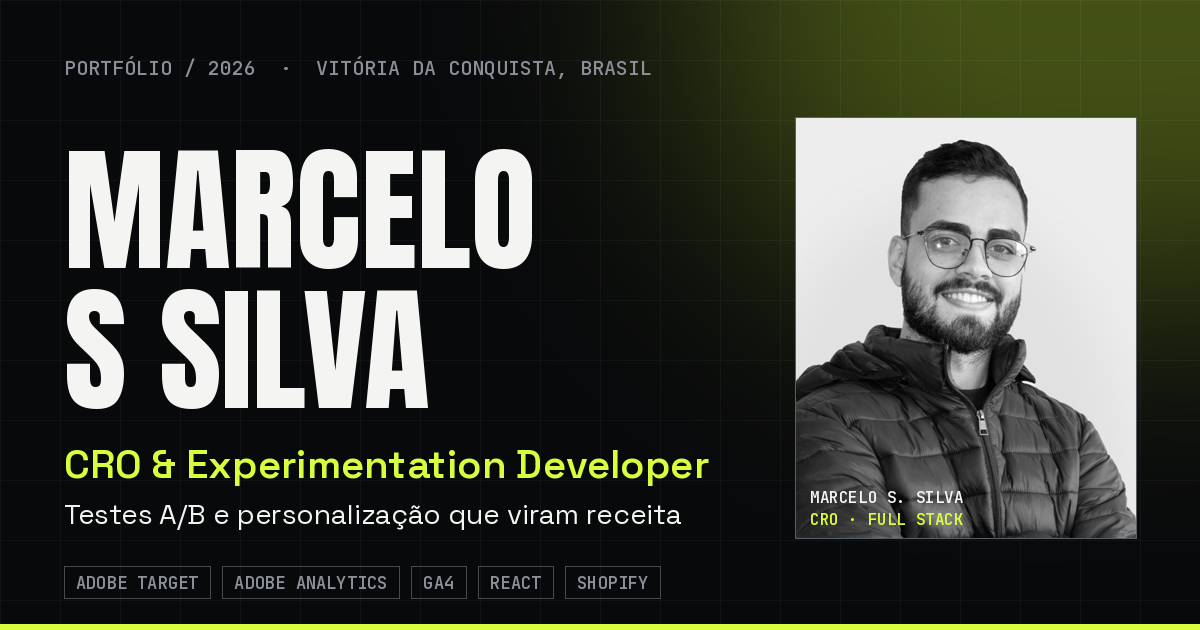
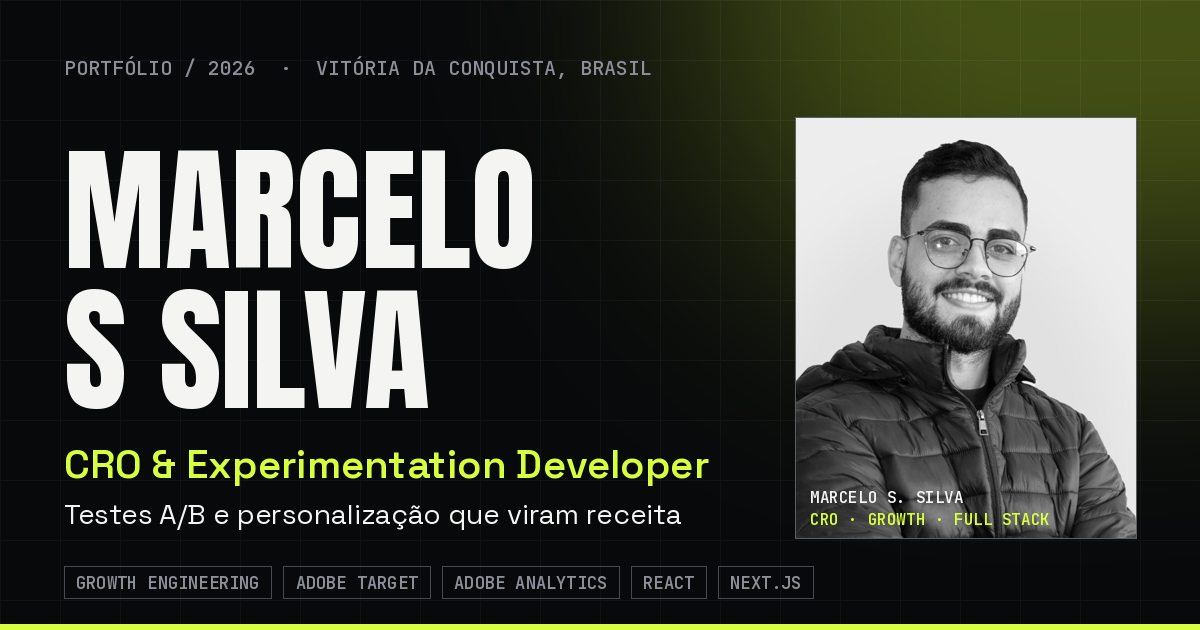
feat(v2): inclui Growth Engineering no posicionamento de CRO
O título, o hero, as palavras-chave e a imagem de compartilhamento passam a apresentar CRO, experimentação e Growth Engineering juntos.

Changed region(s): [[0.0617, 0.9048, 0.6783, 0.9349], [0.7092, 0.8143, 0.8942, 0.8444]]

diff --git a/src/i18n/v2Translations.ts b/src/i18n/v2Translations.ts
@@ -159,7 +159,7 @@ const pt: V2TranslationSchema = {
     statement: 'Testes A/B e personalização que viram',
     statementHighlight: 'receita',
     support:
-      'Desenvolvedor de CRO e experimentação com base full stack: escrevo o código da variante, configuro a segmentação e leio o resultado no Adobe Analytics e no GA4. Também entrego SaaS ponta a ponta, storefronts Shopify de alto tráfego e consultoria de e-commerce, com automação assistida por IA.',
+      'CRO & Experimentation Developer com atuação em Growth Engineering e base full stack: escrevo o código da variante, configuro a segmentação e leio o resultado no Adobe Analytics e no GA4. Também entrego SaaS ponta a ponta, storefronts Shopify de alto tráfego e consultoria de e-commerce, com automação assistida por IA.',
     ctaPrimary: 'Falar no WhatsApp',
     ctaSecondary: 'Ver projetos',
     availability: 'Disponível para novos projetos',
@@ -317,7 +317,7 @@ const en: V2TranslationSchema = {
     statement: 'A/B tests and personalization that turn into',
     statementHighlight: 'revenue',
     support:
-      'CRO and experimentation developer with a full-stack background: I code the variant, set up the targeting and read the results in Adobe Analytics and GA4. I also ship end-to-end SaaS, high-traffic Shopify storefronts and e-commerce consulting, with AI-assisted automation.',
+      'CRO & Experimentation Developer working in Growth Engineering, with a full-stack background: I code the variant, set up the targeting and read the results in Adobe Analytics and GA4. I also ship end-to-end SaaS, high-traffic Shopify storefronts and e-commerce consulting, with AI-assisted automation.',
     ctaPrimary: 'Chat on WhatsApp',
     ctaSecondary: 'See projects',
     availability: 'Available for new projects',

diff --git a/src/content/seo.ts b/src/content/seo.ts
@@ -12,16 +12,16 @@ const OG_IMAGE = {
 
 const copy = {
   pt: {
-    title: 'Marcelo Santana Silva · CRO & Experimentation Developer',
+    title: 'Marcelo Santana Silva · CRO, Experimentation & Growth Engineering',
     description:
-      'Desenvolvedor de CRO e experimentação: testes A/B e personalização com Adobe Target, Adobe Analytics e GA4, com base full stack (React, Next.js, Shopify).',
+      'CRO & Experimentation Developer com atuação em Growth Engineering: testes A/B e personalização com Adobe Target, Adobe Analytics e GA4, com base full stack (React, Next.js, TypeScript).',
     ogDescription: 'Testes A/B e personalização que viram receita. Portfólio de CRO, commerce e full stack.',
     jobTitle: 'CRO & Experimentation Developer',
   },
   en: {
-    title: 'Marcelo Santana Silva · CRO & Experimentation Developer',
+    title: 'Marcelo Santana Silva · CRO, Experimentation & Growth Engineering',
     description:
-      'CRO and experimentation developer: A/B testing and personalization with Adobe Target, Adobe Analytics and GA4, with a full-stack background (React, Next.js, Shopify).',
+      'CRO & Experimentation Developer working in Growth Engineering: A/B testing and personalization with Adobe Target, Adobe Analytics and GA4, with a full-stack background (React, Next.js, TypeScript).',
     ogDescription: 'A/B tests and personalization that turn into revenue. CRO, commerce and full-stack portfolio.',
     jobTitle: 'CRO & Experimentation Developer',
   },
@@ -79,6 +79,7 @@ export function getPersonJsonLd(locale: Locale) {
     },
     knowsAbout: [
       'Conversion Rate Optimization',
+      'Growth Engineering',
       'A/B Testing',
       'Personalization',
       'Adobe Target',

diff --git a/src/app/layout.tsx b/src/app/layout.tsx
@@ -10,21 +10,21 @@ const relaway = Raleway({ subsets: ['latin'] });
 
 export const metadata: Metadata = {
   title: {
-    default: 'Marcelo Santana Silva · CRO & Experimentation Developer',
+    default: 'Marcelo Santana Silva · CRO, Experimentation & Growth Engineering',
     template: '%s · Marcelo S Silva',
   },
   metadataBase: new URL('https://marcelossilvaa-portfolio.vercel.app'),
   description:
     'Desenvolvedor de CRO e experimentação: testes A/B e personalização com Adobe Target, Adobe Analytics e GA4, com base full stack.',
   openGraph: {
-    title: 'Marcelo Santana Silva · CRO & Experimentation Developer',
-    description: 'Testes A/B e personalização que viram receita. Portfólio de CRO, commerce e full stack.',
+    title: 'Marcelo Santana Silva · CRO, Experimentation & Growth Engineering',
+    description: 'Testes A/B e personalização que viram receita. Portfólio de CRO, growth engineering e full stack.',
     type: 'website',
     images: [{ url: '/og.png', width: 1200, height: 630 }],
   },
   twitter: {
     card: 'summary_large_image',
-    title: 'Marcelo Santana Silva · CRO & Experimentation Developer',
+    title: 'Marcelo Santana Silva · CRO, Experimentation & Growth Engineering',
     description: 'Testes A/B e personalização que viram receita.',
     images: ['/og.png'],
   },

diff --git a/src/app/v2/sections/HeroSection.tsx b/src/app/v2/sections/HeroSection.tsx
@@ -80,8 +80,8 @@ export function HeroSection({ locale, text, bootDone }: HeroSectionProps) {
             delay={baseDelay + 0.18}
             srText={
               locale === 'en'
-                ? 'Marcelo Santana Silva, CRO & Experimentation Developer'
-                : 'Marcelo Santana Silva, desenvolvedor de CRO e experimentação'
+                ? 'Marcelo Santana Silva, CRO & Experimentation Developer, Growth Engineering'
+                : 'Marcelo Santana Silva, CRO & Experimentation Developer, Growth Engineering'
             }
           />
           <div className="flex flex-wrap items-end justify-between gap-x-6 gap-y-4">
@@ -104,7 +104,7 @@ export function HeroSection({ locale, text, bootDone }: HeroSectionProps) {
               <span className="v2-frame-stack__scan" />
               <figcaption className="v2-hero__portrait-caption v2-mono">
                 <span className="text-[var(--v2-fg)]">Marcelo S. Silva</span>
-                <span className="text-[var(--v2-signal)]">CRO · Full stack</span>
+                <span className="text-[var(--v2-signal)]">CRO · Growth · Full stack</span>
               </figcaption>
             </motion.figure>
           </div>

diff --git a/src/content/v2Content.ts b/src/content/v2Content.ts
@@ -53,6 +53,7 @@ export function getV2Keywords(locale: Locale): string[] {
     'CRO',
     isEn ? 'EXPERIMENTATION' : 'EXPERIMENTAÇÃO',
     isEn ? 'PERSONALIZATION' : 'PERSONALIZAÇÃO',
+    'GROWTH ENGINEERING',
     isEn ? 'CONVERSION' : 'CONVERSÃO',
     'FULL STACK',
     'SAAS',
@@ -78,7 +79,7 @@ export function getV2TagCloud(locale: Locale): V2TagCloud {
   const isEn = locale === 'en';
 
   return {
-    core: ['CRO', isEn ? 'A/B Testing' : 'Testes A/B', 'Full Stack'],
+    core: ['CRO', isEn ? 'A/B Testing' : 'Testes A/B', 'Growth Engineering', 'Full Stack'],
     groups: [
       {
         label: isEn ? 'Product & stack' : 'Produto & stack',
